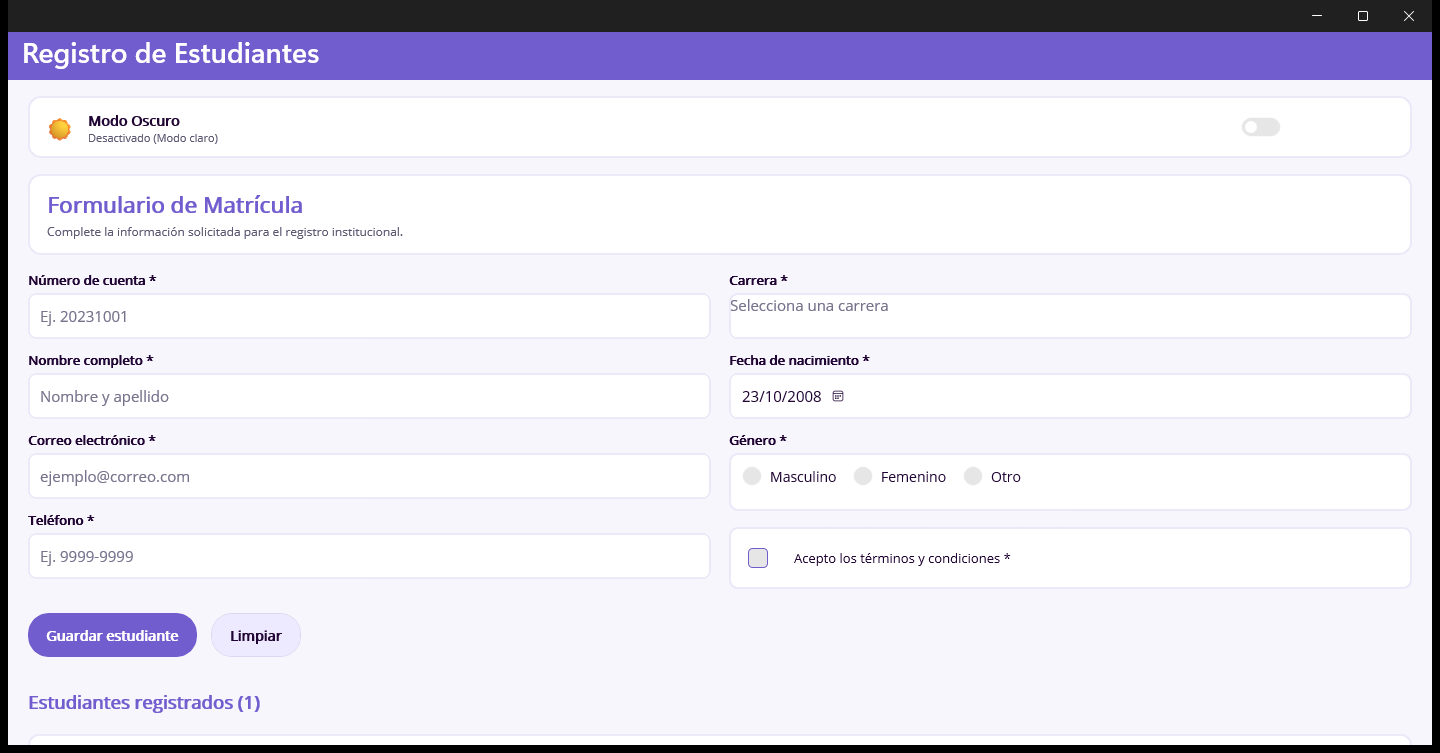
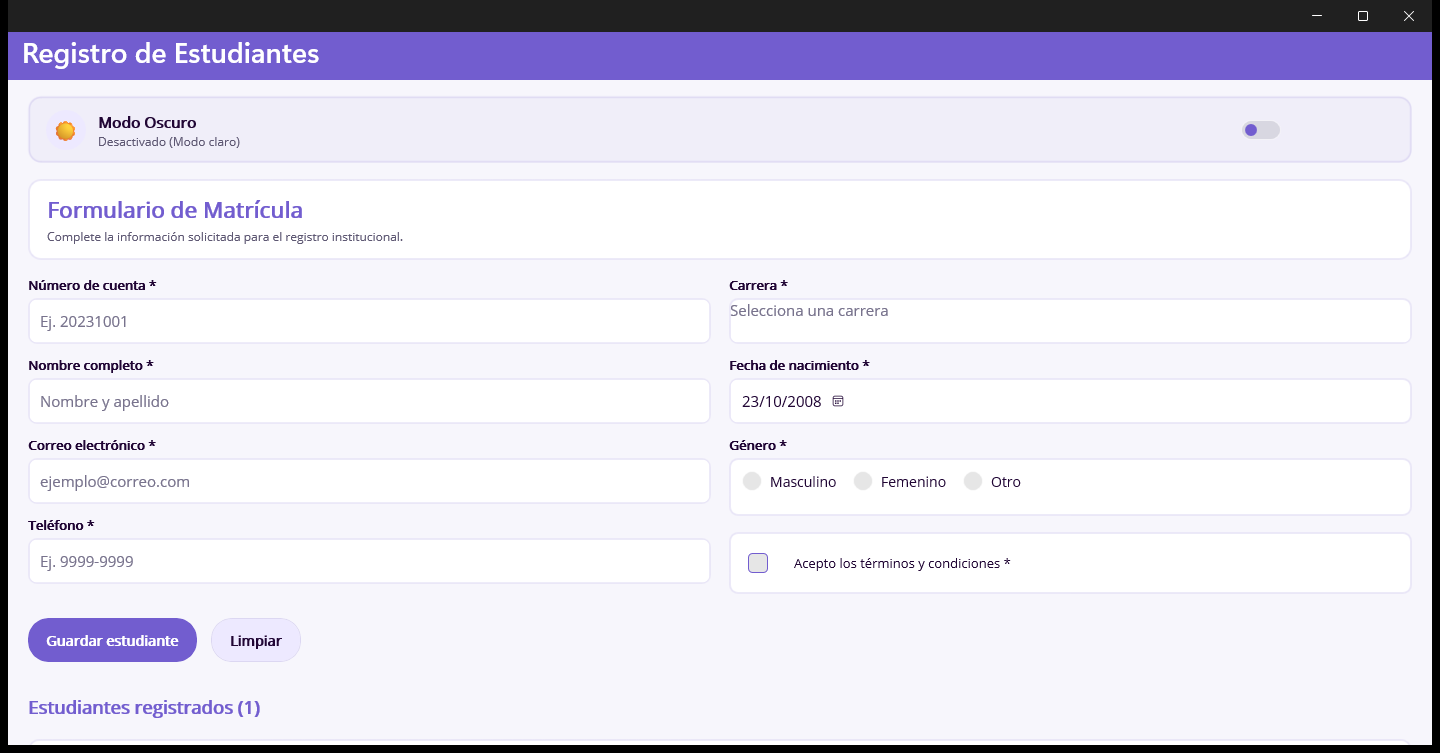
Mejora de visibilidad del interruptor de tema en modo claro y soporte de pulsacion en tarjeta

diff --git a/Views/RegistroPage.xaml b/Views/RegistroPage.xaml
@@ -22,33 +22,44 @@
             <!-- ============================================================== -->
             <!-- CONTROL DE TEMA: Switch con UserAppTheme (Slide 8 y Req. 5)   -->
             <!-- ============================================================== -->
-            <Border StrokeThickness="1"
+            <Border StrokeThickness="1.5"
                     StrokeShape="RoundRectangle 12"
                     Stroke="{AppThemeBinding Light={StaticResource BorderLight}, Dark={StaticResource BorderDark}}"
-                    BackgroundColor="{AppThemeBinding Light={StaticResource SurfaceLight}, Dark={StaticResource SurfaceDark}}"
-                    Padding="16,10">
+                    BackgroundColor="{AppThemeBinding Light={StaticResource SurfaceVariantLight}, Dark={StaticResource SurfaceDark}}"
+                    Padding="16,12">
+                <Border.GestureRecognizers>
+                    <TapGestureRecognizer Tapped="TemaCard_Tapped" />
+                </Border.GestureRecognizers>
                 <Grid ColumnDefinitions="*,Auto" VerticalOptions="Center">
                     <HorizontalStackLayout Grid.Column="0" Spacing="12" VerticalOptions="Center">
-                        <Label x:Name="TemaIconLabel"
-                               Text="☀"
-                               FontSize="22"
-                               VerticalOptions="Center" />
-                        <VerticalStackLayout Spacing="0" VerticalOptions="Center">
+                        <Border StrokeShape="RoundRectangle 20"
+                                StrokeThickness="0"
+                                WidthRequest="40"
+                                HeightRequest="40"
+                                BackgroundColor="{AppThemeBinding Light={StaticResource Secondary}, Dark={StaticResource SurfaceVariantDark}}"
+                                VerticalOptions="Center">
+                            <Label x:Name="TemaIconLabel"
+                                   Text="☀"
+                                   FontSize="20"
+                                   HorizontalOptions="Center"
+                                   VerticalOptions="Center" />
+                        </Border>
+                        <VerticalStackLayout Spacing="1" VerticalOptions="Center">
                             <Label Text="Modo Oscuro"
                                    FontAttributes="Bold"
-                                   FontSize="14"
+                                   FontSize="15"
                                    TextColor="{AppThemeBinding Light={StaticResource Texto}, Dark={StaticResource TextDark}}" />
                             <Label x:Name="TemaEstadoLabel"
                                    Text="Desactivado (Modo claro)"
-                                   FontSize="11"
+                                   FontSize="12"
                                    TextColor="{AppThemeBinding Light={StaticResource Gray600}, Dark={StaticResource TextSecondaryDark}}" />
                         </VerticalStackLayout>
                     </HorizontalStackLayout>
 
                     <Switch Grid.Column="1"
                             x:Name="TemaSwitch"
-                            OnColor="{StaticResource Primary}"
-                            ThumbColor="{AppThemeBinding Light={StaticResource White}, Dark={StaticResource Secondary}}"
+                            OnColor="{AppThemeBinding Light={StaticResource Primary}, Dark={StaticResource PrimaryDark}}"
+                            ThumbColor="{AppThemeBinding Light={StaticResource Primary}, Dark={StaticResource White}}"
                             Toggled="TemaSwitch_Toggled"
                             VerticalOptions="Center"
                             SemanticProperties.Description="Cambiar entre modo claro y modo oscuro" />

diff --git a/Resources/Styles/Styles.xaml b/Resources/Styles/Styles.xaml
@@ -419,7 +419,7 @@
 
     <Style TargetType="Switch">
         <Setter Property="OnColor" Value="{AppThemeBinding Light={StaticResource Primary}, Dark={StaticResource PrimaryDark}}" />
-        <Setter Property="ThumbColor" Value="{StaticResource White}" />
+        <Setter Property="ThumbColor" Value="{AppThemeBinding Light={StaticResource Primary}, Dark={StaticResource White}}" />
         <Setter Property="VisualStateManager.VisualStateGroups">
             <VisualStateGroupList>
                 <VisualStateGroup x:Name="CommonStates">
@@ -427,18 +427,18 @@
                     <VisualState x:Name="Disabled">
                         <VisualState.Setters>
                             <Setter Property="OnColor" Value="{AppThemeBinding Light={StaticResource Gray300}, Dark={StaticResource Gray600}}" />
-                            <Setter Property="ThumbColor" Value="{AppThemeBinding Light={StaticResource Gray300}, Dark={StaticResource Gray600}}" />
+                            <Setter Property="ThumbColor" Value="{AppThemeBinding Light={StaticResource Gray400}, Dark={StaticResource Gray500}}" />
                         </VisualState.Setters>
                     </VisualState>
                     <VisualState x:Name="On">
                         <VisualState.Setters>
                             <Setter Property="OnColor" Value="{AppThemeBinding Light={StaticResource Primary}, Dark={StaticResource PrimaryDark}}" />
-                            <Setter Property="ThumbColor" Value="{AppThemeBinding Light={StaticResource Secondary}, Dark={StaticResource White}}" />
+                            <Setter Property="ThumbColor" Value="{StaticResource White}" />
                         </VisualState.Setters>
                     </VisualState>
                     <VisualState x:Name="Off">
                         <VisualState.Setters>
-                            <Setter Property="ThumbColor" Value="{AppThemeBinding Light={StaticResource Gray400}, Dark={StaticResource Gray500}}" />
+                            <Setter Property="ThumbColor" Value="{AppThemeBinding Light={StaticResource Primary}, Dark={StaticResource Gray400}}" />
                         </VisualState.Setters>
                     </VisualState>
                 </VisualStateGroup>

diff --git a/Views/RegistroPage.xaml.cs b/Views/RegistroPage.xaml.cs
@@ -47,12 +47,18 @@ public partial class RegistroPage : ContentPage
 
         TemaSwitch.Toggled -= TemaSwitch_Toggled;
         TemaSwitch.IsToggled = esOscuro;
+        TemaSwitch.ThumbColor = esOscuro ? Colors.White : (Color)Application.Current!.Resources["Primary"];
         TemaSwitch.Toggled += TemaSwitch_Toggled;
 
         TemaIconLabel.Text = esOscuro ? "🌙" : "☀";
         TemaEstadoLabel.Text = esOscuro ? "Activado (Modo oscuro)" : "Desactivado (Modo claro)";
 
         await CargarEstudiantesAsync();
+    }
+
+    private void TemaCard_Tapped(object? sender, TappedEventArgs e)
+    {
+        TemaSwitch.IsToggled = !TemaSwitch.IsToggled;
     }
 
     private void TemaSwitch_Toggled(object? sender, ToggledEventArgs e)
@@ -65,12 +71,14 @@ public partial class RegistroPage : ContentPage
             Application.Current.UserAppTheme = AppTheme.Dark;
             TemaIconLabel.Text = "🌙";
             TemaEstadoLabel.Text = "Activado (Modo oscuro)";
+            TemaSwitch.ThumbColor = Colors.White;
         }
         else
         {
             Application.Current.UserAppTheme = AppTheme.Light;
             TemaIconLabel.Text = "☀";
             TemaEstadoLabel.Text = "Desactivado (Modo claro)";
+            TemaSwitch.ThumbColor = (Color)Application.Current.Resources["Primary"];
         }
     }
 
